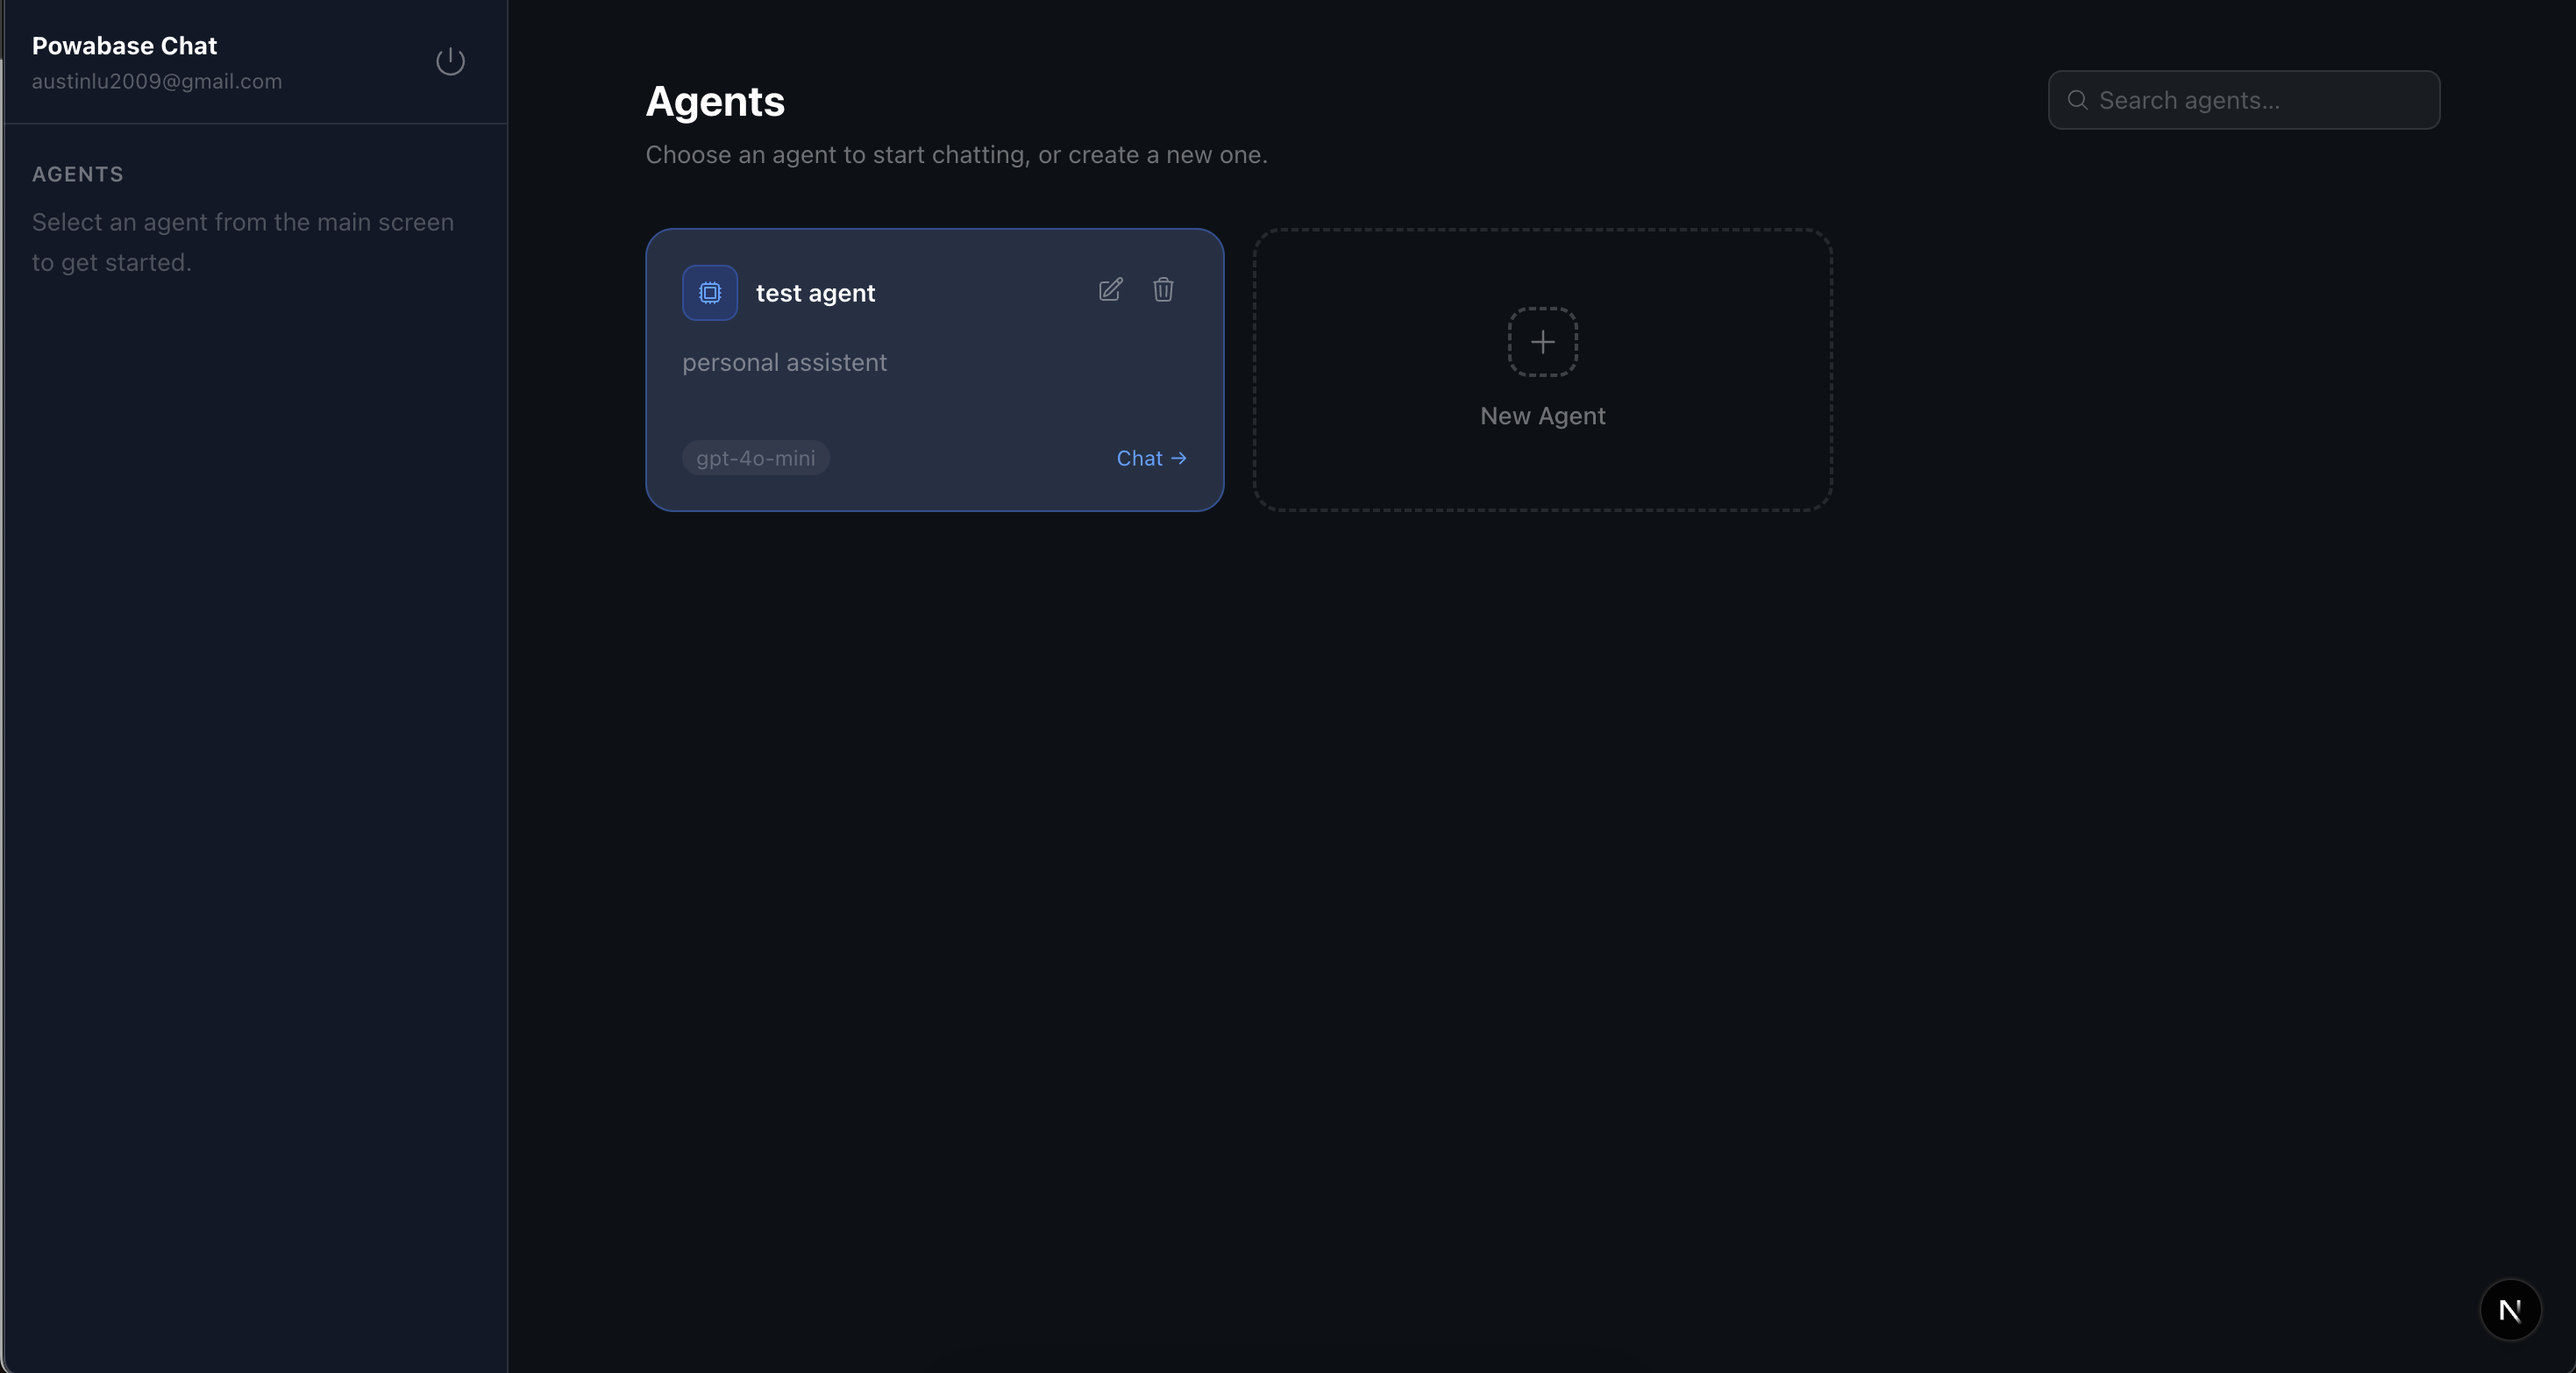
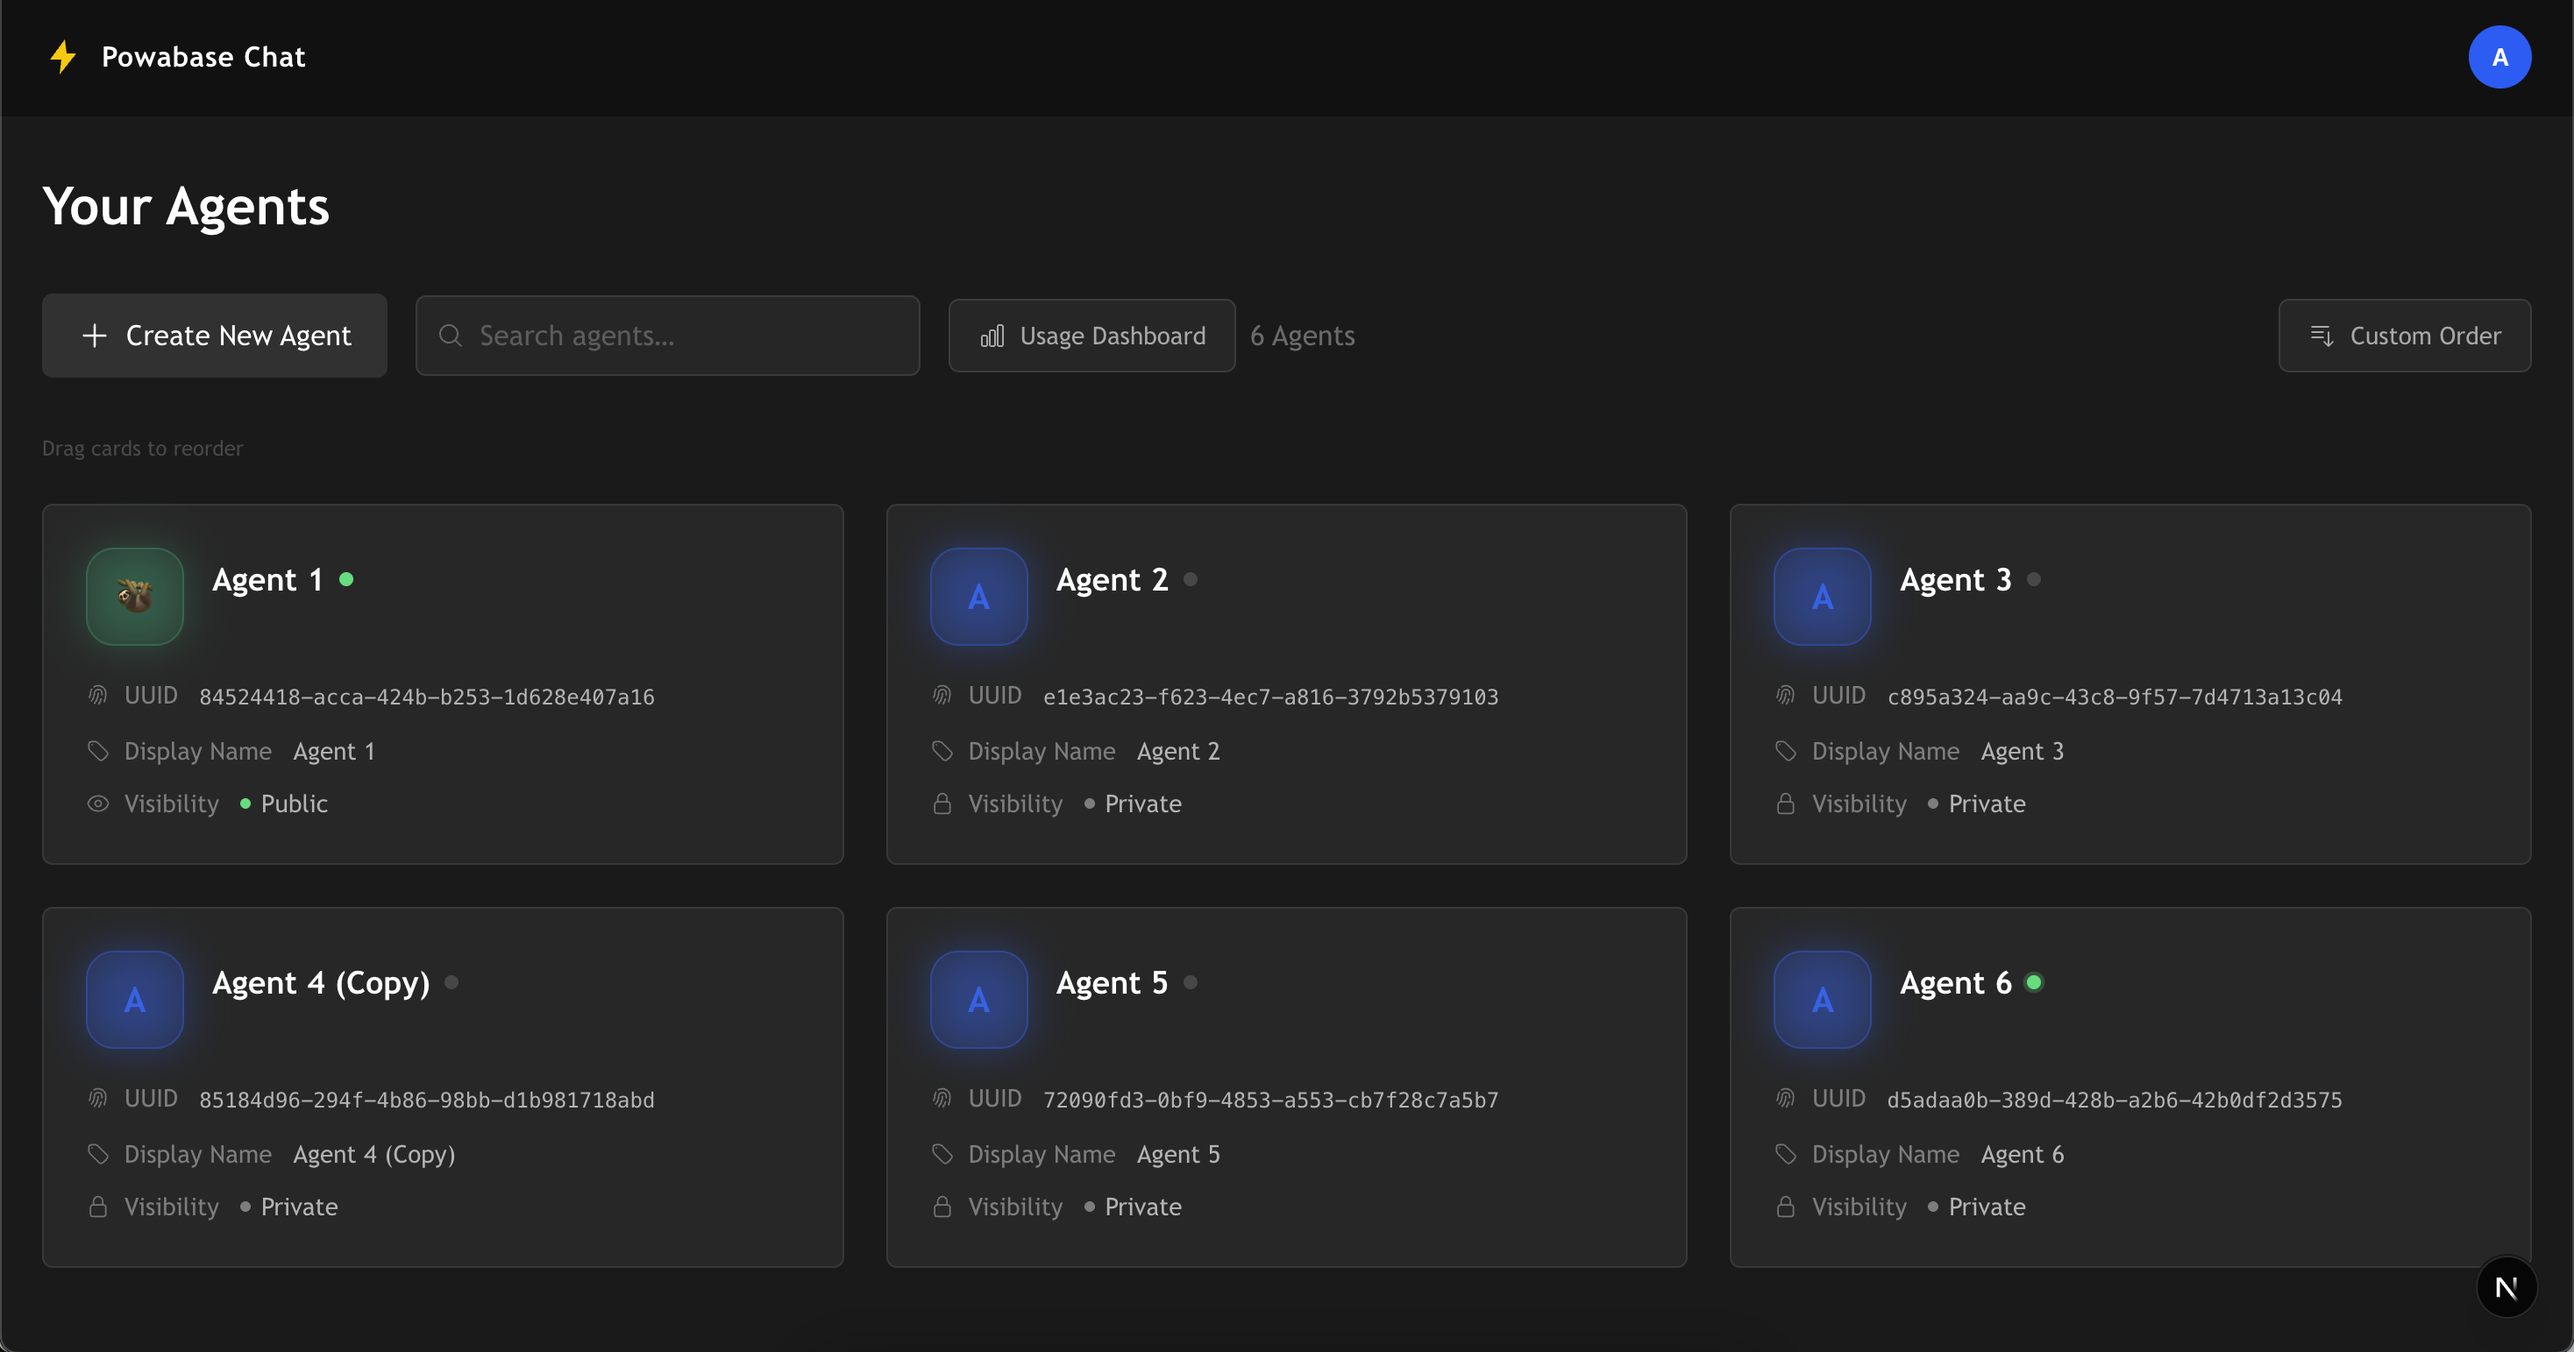
update README added screenshots and updated minor issues

diff --git a/components/AgentsScreen.tsx b/components/AgentsScreen.tsx
@@ -3,7 +3,7 @@
 import { useState, useEffect, useRef } from "react";
 import { useRouter } from "next/navigation";
 import { UserAgent } from "@/lib/types";
-import { AgentPrefs, AVATAR_COLORS, getAgentLastActive, saveAgentPrefs } from "@/lib/agentPrefs";
+import { AgentPrefs, AVATAR_COLORS, getAgentLastActive, saveAgentPrefs, stripKnowledgeInstruction } from "@/lib/agentPrefs";
 import {
   PlusIcon,
   XMarkIcon,
@@ -35,8 +35,6 @@ interface Props {
   onDeleteAgent?: (agent: UserAgent) => void;
   onDuplicateAgent?: (name: string, systemPrompt: string) => Promise<boolean>;
   onRenameAgent?: (agent: UserAgent, newName: string) => Promise<boolean>;
-  user?: { id: string; email: string; username?: string } | null;
-  onLogout?: () => void;
 }
 
 type SortOption = "custom" | "az" | "za" | "most-recent" | "least-recent" | "newest" | "oldest";
@@ -942,7 +940,7 @@ export default function AgentsScreen({
                                   onClick={async (e) => {
                                     e.stopPropagation();
                                     setOpenMenuId(null);
-                                    await onDuplicateAgent(`${agent.name} (Copy)`, agent.system_prompt ?? "");
+                                    await onDuplicateAgent(`${agent.name} (Copy)`, stripKnowledgeInstruction(agent.system_prompt ?? ""));
                                   }}
                                   className="w-full flex items-center gap-3 px-4 py-2.5 text-sm text-white/70 hover:text-white hover:bg-white/8 transition-colors text-left"
                                 >

diff --git a/app/api/extract-variables/route.ts b/app/api/extract-variables/route.ts
@@ -1,9 +1,12 @@
 import { NextRequest, NextResponse } from "next/server";
-import { pbGet, pbPost, pbDelete } from "@/lib/powabase-server";
+import { getUserFromCookie, pbGet, pbPost, pbDelete, listAgentsWithDescription, parseAgentName } from "@/lib/powabase-server";
 import { AgentVariable } from "@/lib/agentVariables";
 
 export async function POST(req: NextRequest) {
   try {
+    const { user } = await getUserFromCookie(req);
+    if (!user) return NextResponse.json({ error: "Unauthorized" }, { status: 401 });
+
     const { agentId, sessionId, variables }: {
       agentId: string;
       sessionId: string;
@@ -13,6 +16,11 @@ export async function POST(req: NextRequest) {
     if (!agentId || !sessionId || !variables?.length) {
       return NextResponse.json({ error: "agentId, sessionId, and variables required" }, { status: 400 });
     }
+
+    // Verify agent belongs to this user
+    const userAgents = await listAgentsWithDescription();
+    const owned = userAgents.some(a => a.id === agentId && parseAgentName(a.name)?.uid === user.id);
+    if (!owned) return NextResponse.json({ error: "Agent not found" }, { status: 404 });
 
     // Fetch session runs to build a readable transcript
     const data = await pbGet(`/api/sessions/${sessionId}/runs`);

diff --git a/app/page.tsx b/app/page.tsx
@@ -324,7 +324,7 @@ export default function Home() {
 
   async function deleteConversation(conv: Conversation) {
     try {
-      await fetch(`/api/sessions?sessionId=${conv.sessionId}`, { method: "DELETE" });
+      await fetch(`/api/sessions?sessionId=${conv.sessionId}&agentId=${conv.agentId}`, { method: "DELETE" });
       localStorage.removeItem(`conv_title_${conv.sessionId}`);
       deleteSessionCollectedData(conv.sessionId);
       setConversations((prev) => prev.filter((c) => c.sessionId !== conv.sessionId));
@@ -589,8 +589,6 @@ export default function Home() {
             onDeleteAgent={deleteAgent}
             onDuplicateAgent={duplicateAgent}
             onRenameAgent={(agent, newName) => updateAgent(agent, { display_name: newName })}
-            user={user}
-            onLogout={logout}
           />
         ) : activePanel === "sessions" ? (
           <SessionsPanel

diff --git a/README.md b/README.md
@@ -10,6 +10,12 @@ A full-stack AI chat platform built on [Powabase](https://powabase.ai). Users si
 
 Clone it, point it at your Powabase project, and you have a working multi-user AI chat platform.
 
+![Agents screen showing a grid of six agents with public/private visibility badges, UUID, and display name on each card](screenshots/agents-screen.png)
+*Your Agents screen - create, search, reorder, and manage multiple agents. Each card shows the agent's visibility status, UUID, and display name. Hover a card to access the three-dot menu for rename, duplicate, share, and delete.*
+
+![Chat screen with the agent sidebar expanded, showing Sessions, Sources, Collected Data, Customizations, Go Live, and Agent Settings navigation](screenshots/chat-screen.png)
+*Chat screen - the pinnable sidebar gives access to sessions, sources, customizations, and Go Live. The agent's public/private status is shown in the header.*
+
 ## What it does
 
 **For logged-in users:**
